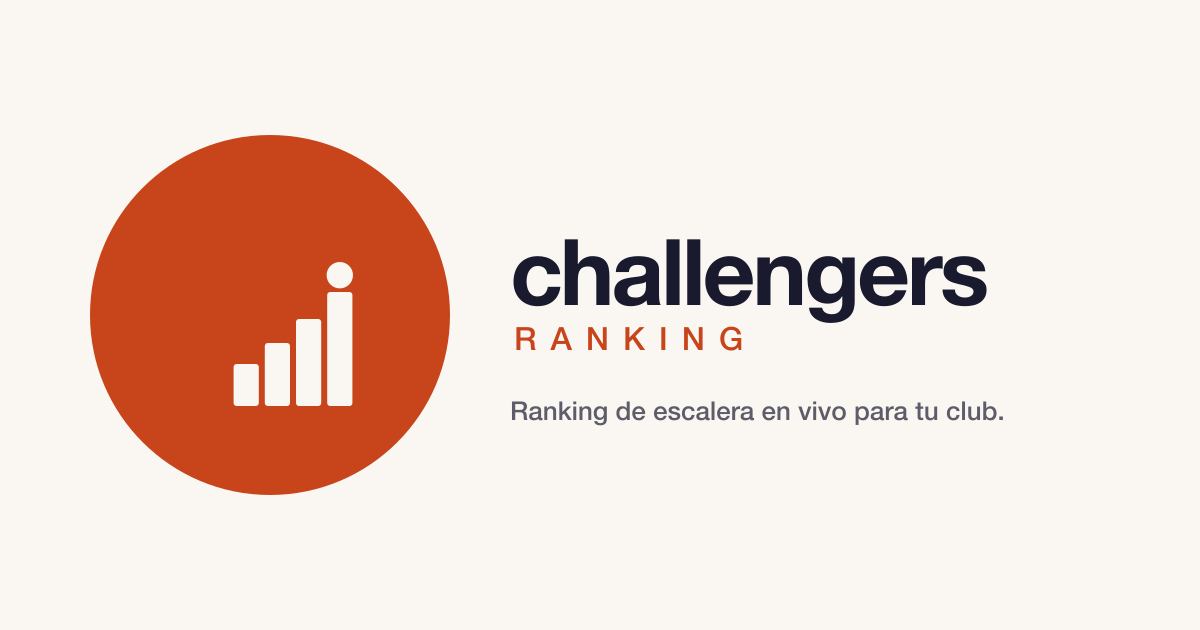
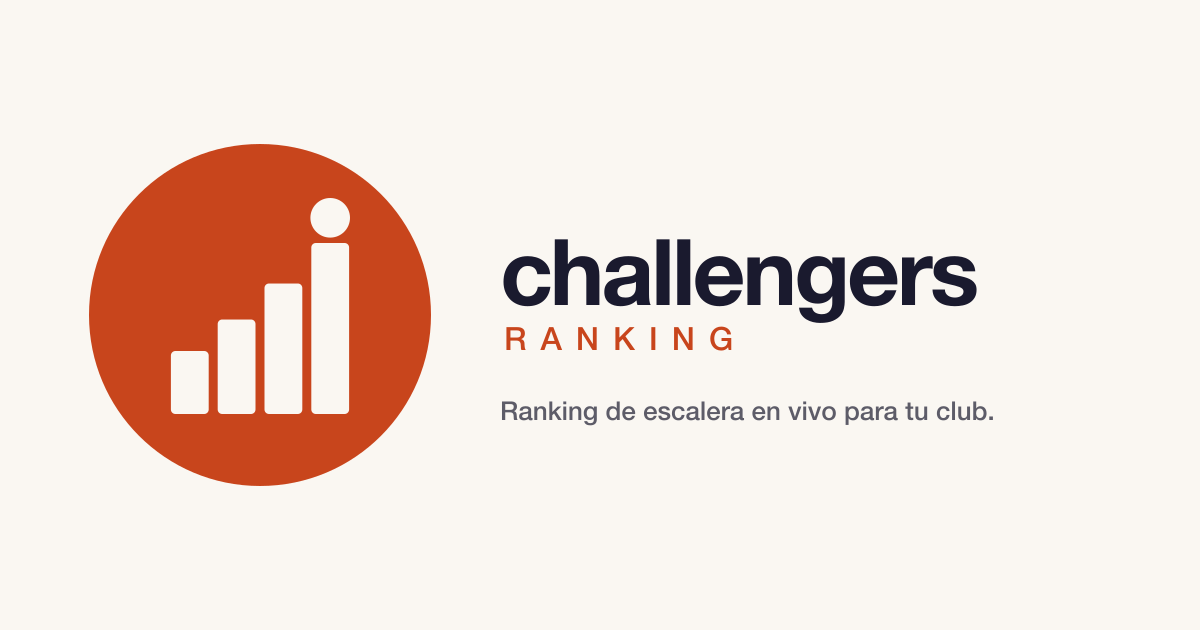
OG image: arreglar escalera (sacar scale 0.6 que la achicaba)
El SVG fuente social-banner-og.svg tenía las bars con un scale(0.6)

→ se renderizaban al 60% dentro del círculo orange, dejando mucho

espacio vacío y la pelota descentrada.

Solución: re-armar el badge embebiendo el badge-orange.svg canónico

como sub-SVG con su propio viewBox 400x400. Eso replica exactamente

el badge que se ve en el resto del brand kit (header, app, etc.).

PNG regenerado con sharp. Cache-bust ?v=2 → ?v=3.

Changed region(s): [[0.1233, 0.2111, 0.8325, 0.7841], [0.4008, 0.6333, 0.8325, 0.6937], [0.1233, 0.7238, 0.1542, 0.754]]

diff --git a/index.html b/index.html
@@ -20,7 +20,7 @@
   <meta property="og:site_name"         content="Challengers Ranking" />
   <meta property="og:title"             content="Challengers Ranking — Tennis Ladder App for Clubs" />
   <meta property="og:description"       content="The tennis ladder app that drives real member engagement. Live rankings, automated challenges, and a community feed that keeps members coming back." />
-  <meta property="og:image"             content="https://challengersranking.online/og-image.png?v=2" />
+  <meta property="og:image"             content="https://challengersranking.online/og-image.png?v=3" />
   <meta property="og:image:width"       content="1200" />
   <meta property="og:image:height"      content="630" />
   <meta property="og:locale"            content="en_US" />
@@ -30,7 +30,7 @@
   <meta name="twitter:card"        content="summary_large_image" />
   <meta name="twitter:title"       content="Challengers Ranking — Tennis Ladder App for Clubs" />
   <meta name="twitter:description" content="The tennis ladder app that drives real member engagement. Live rankings, automated challenges, and a community feed that keeps members coming back." />
-  <meta name="twitter:image"       content="https://challengersranking.online/og-image.png?v=2" />
+  <meta name="twitter:image"       content="https://challengersranking.online/og-image.png?v=3" />
 
   <!-- JSON-LD: SoftwareApplication -->
   <script type="application/ld+json">